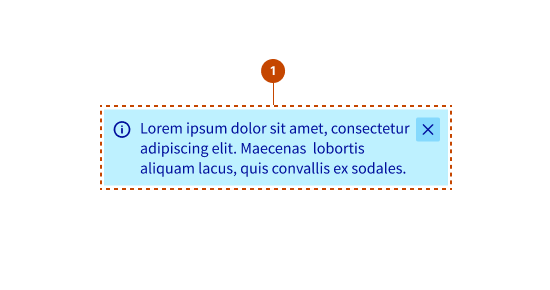
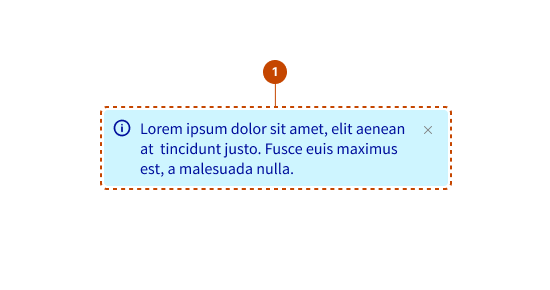
refactor(message): update light with colored border

Changed region(s): [[0.1855, 0.1862, 0.8345, 0.4966], [0.2473, 0.4966, 0.7418, 0.6207], [0.8036, 0.6207, 0.8345, 0.6517]]

diff --git a/packages/ods-react/src/style/_message.scss b/packages/ods-react/src/style/_message.scss
@@ -11,6 +11,7 @@
   --ods-message-background-color-success-light: var(--ods-theme-background-color);
   --ods-message-background-color-warning: var(--ods-color-warning-075);
   --ods-message-background-color-warning-light: var(--ods-theme-background-color);
+  --ods-message-border-radius: calc(var(--ods-theme-border-radius) / 2);
   --ods-message-text-color-critical: var(--ods-color-critical-700);
   --ods-message-text-color-critical-light: var(--ods-color-critical-700);
   --ods-message-text-color-information: var(--ods-color-information-700);
@@ -28,6 +29,7 @@
   display: inline-flex;
   column-gap: var(--ods-theme-column-gap);
   align-items: center;
+  border-radius: var(--ods-message-border-radius);
   padding: var(--ods-theme-padding-vertical) var(--ods-theme-padding-horizontal);
 }
 
@@ -55,21 +57,27 @@
 
 @mixin ods-message-variant-light($color) {
   @if $color == 'critical' {
+    border: solid var(--ods-theme-border-width) var(--ods-message-text-color-critical-light);
     background-color: var(--ods-message-background-color-critical-light);
     color: var(--ods-message-text-color-critical-light);
   } @else if $color == 'information' {
+    border: solid var(--ods-theme-border-width) var(--ods-message-text-color-information-light);
     background-color: var(--ods-message-background-color-information-light);
     color: var(--ods-message-text-color-information-light);
   } @else if $color == 'neutral' {
+    border: solid var(--ods-theme-border-width) var(--ods-message-text-color-neutral-light);
     background-color: var(--ods-message-background-color-neutral-light);
     color: var(--ods-message-text-color-neutral-light);
   } @else if $color == 'primary' {
+    border: solid var(--ods-theme-border-width) var(--ods-message-text-color-primary-light);
     background-color: var(--ods-message-background-color-primary-light);
     color: var(--ods-message-text-color-primary-light);
   } @else if $color == 'success' {
+    border: solid var(--ods-theme-border-width) var(--ods-message-text-color-success-light);
     background-color: var(--ods-message-background-color-success-light);
     color: var(--ods-message-text-color-success-light);
   } @else if $color == 'warning' {
+    border: solid var(--ods-theme-border-width) var(--ods-message-text-color-warning-light);
     background-color: var(--ods-message-background-color-warning-light);
     color: var(--ods-message-text-color-warning-light);
   }
